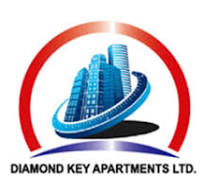
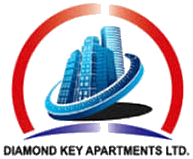
update background

diff --git a/src/components/Partners.jsx b/src/components/Partners.jsx
@@ -1,3 +1,4 @@
+import { useRef, useState } from 'react';
 import { ArrowUpRight } from 'lucide-react';
 import haMeemLogo from '../assets/partners/ha-meem-group.png';
 import allionLogo from '../assets/partners/allion-trade-international.png';
@@ -29,29 +30,108 @@ const partnerLogos = [
   { src: favLogo, alt: 'FAV Group of Companies logo' },
   { src: bpclLogo, alt: 'BPCL logo' },
   { src: safaAgroLogo, alt: 'Safa Agro logo' },
-  { src: residenceAddressLogo, alt: 'Residence Address logo' },
-  { src: quaziLogo, alt: 'Quazi logo' },
   { src: articleStructureLogo, alt: 'Article Structure logo' },
   { src: liliputLogo, alt: 'Liliput Digital logo' },
   { name: 'Safe Green Agro' },
+  { src: residenceAddressLogo, alt: 'Residence Address logo' },
+  { src: quaziLogo, alt: 'Quazi logo' },
   { name: 'Ashraf Setu Shopping Complex' },
 ];
 
 export default function Partners() {
+  const tickerRef = useRef(null);
+  const dragRef = useRef(null);
+  const [isDragging, setIsDragging] = useState(false);
+
+  const handlePointerDown = (event) => {
+    if (event.button !== 0) return;
+
+    const track = tickerRef.current?.querySelector('.ticker-track');
+    const animation = track?.getAnimations()[0];
+    const duration = Number(animation?.effect?.getTiming().duration);
+    const distance = track?.scrollWidth / 2;
+    if (!animation || !duration || !distance) return;
+
+    event.preventDefault();
+    animation.pause();
+    dragRef.current = {
+      pointerId: event.pointerId,
+      startX: event.clientX,
+      startTime: Number(animation.currentTime) || 0,
+      duration,
+      distance,
+      animation,
+    };
+    event.currentTarget.setPointerCapture(event.pointerId);
+    setIsDragging(true);
+  };
+
+  const handlePointerMove = (event) => {
+    const drag = dragRef.current;
+    if (!drag || drag.pointerId !== event.pointerId) return;
+
+    event.preventDefault();
+    const deltaX = event.clientX - drag.startX;
+    const time = drag.startTime - (deltaX / drag.distance) * drag.duration;
+    drag.animation.currentTime = ((time % drag.duration) + drag.duration) % drag.duration;
+  };
+
+  const handlePointerEnd = (event) => {
+    const drag = dragRef.current;
+    if (!drag || drag.pointerId !== event.pointerId) return;
+
+    dragRef.current = null;
+    setIsDragging(false);
+    drag.animation.play();
+  };
+
+  const handleKeyDown = (event) => {
+    if (event.key !== 'ArrowLeft' && event.key !== 'ArrowRight') return;
+
+    const track = tickerRef.current?.querySelector('.ticker-track');
+    const animation = track?.getAnimations()[0];
+    const duration = Number(animation?.effect?.getTiming().duration);
+    const distance = track?.scrollWidth / 2;
+    if (!animation || !duration || !distance) return;
+
+    event.preventDefault();
+    const deltaX = event.key === 'ArrowRight' ? -120 : 120;
+    const time = (Number(animation.currentTime) || 0) - (deltaX / distance) * duration;
+    animation.currentTime = ((time % duration) + duration) % duration;
+  };
+
   return (
     <section className="partners" id="partners" aria-label="Trusted by industry leaders">
       <div className="partner-intro"><span className="eyebrow">TRUSTED BY INDUSTRY LEADERS</span><h2>Better work<br /><em>starts together.</em></h2><a href="#contact">Become a partner <ArrowUpRight size={15} /></a></div>
-      <ul className="partner-logo-grid" aria-label="Client and partner logos">
-        {partnerLogos.map((logo) => (
-          <li className="partner-logo-card" key={logo.alt || logo.name}>
-            {logo.src ? (
-              <img src={logo.src} alt={logo.alt} loading="lazy" />
-            ) : (
-              <span className="partner-logo-name">{logo.name}</span>
-            )}
-          </li>
-        ))}
-      </ul>
+      <div
+        className={`ticker-window${isDragging ? ' is-dragging' : ''}`}
+        ref={tickerRef}
+        role="group"
+        aria-label="Client and partner logos. Drag to browse or use the arrow keys."
+        tabIndex={0}
+        onPointerDown={handlePointerDown}
+        onPointerMove={handlePointerMove}
+        onPointerUp={handlePointerEnd}
+        onPointerCancel={handlePointerEnd}
+        onLostPointerCapture={handlePointerEnd}
+        onKeyDown={handleKeyDown}
+      >
+        <div className="ticker-track">
+          {[false, true].map((isDuplicate) => (
+            <ul className="partner-logo-group" key={isDuplicate ? 'duplicate' : 'logos'} aria-hidden={isDuplicate}>
+              {partnerLogos.map((logo) => (
+                <li className="partner-logo-item" key={logo.alt || logo.name}>
+                  {logo.src ? (
+                    <img src={logo.src} alt={isDuplicate ? '' : logo.alt} loading="lazy" draggable={false} />
+                  ) : (
+                    <span className="partner-logo-name">{logo.name}</span>
+                  )}
+                </li>
+              ))}
+            </ul>
+          ))}
+        </div>
+      </div>
       <div className="partner-footnote">SELECTED CLIENTS &amp; PARTNERS · VERSACRAFT LIMITED</div>
     </section>
   );

diff --git a/src/App.css b/src/App.css
@@ -558,7 +558,6 @@
     bottom: 25px;
     left: max(48px, calc((100vw - 1240px)/2));
     right: max(48px, calc((100vw - 1240px)/2));
-    border-top: 1px solid #ffffff35;
     padding-top: 12px;
     display: flex;
     justify-content: space-between;
@@ -1161,7 +1160,7 @@
 
 .partners {
     min-height: 260px;
-    padding: 42px 0 34px;
+    padding: 42px 0 48px;
     position: relative;
     scroll-margin-top: 78px;
     display: grid;
@@ -1192,40 +1191,63 @@
     font-weight: 700
 }
 
-.partner-logo-grid {
+.ticker-window {
     grid-column: 2;
-    display: grid;
-    grid-template-columns: repeat(4, minmax(0, 1fr));
-    gap: 12px;
     width: 100%;
-    margin: 0;
-    padding: 0 max(34px, calc((100vw - 1172px)/2)) 0 0;
-    list-style: none;
+    overflow: hidden;
+    cursor: grab;
+    touch-action: pan-y;
+    user-select: none
 }
 
-.partner-logo-card {
+.ticker-window.is-dragging {
+    cursor: grabbing
+}
+
+.ticker-track {
+    display: flex;
+    width: max-content;
+    animation: partner-marquee 46s linear infinite
+}
+
+.partner-logo-group {
+    display: flex;
+    align-items: center;
+    flex: none;
+    gap: clamp(28px, 4vw, 60px);
+    margin: 0;
+    padding: 0 clamp(28px, 4vw, 60px) 0 0;
+    list-style: none
+}
+
+.partner-logo-item {
     display: grid;
     place-items: center;
-    min-width: 0;
-    min-height: 92px;
-    padding: 10px;
+    flex: 0 0 175px;
+    min-height: 90px;
+    padding: 8px;
     border: 1px solid #ffffff24;
     border-radius: 8px;
-    background: #fff;
-    box-shadow: 0 10px 24px #0002;
+    background: #fff
 }
 
-.partner-logo-card img {
+.partner-logo-item img {
     display: block;
-    width: 100%;
-    height: 72px;
-    object-fit: contain;
+    max-width: 157px;
+    max-height: 68px;
+    object-fit: contain
 }
 
 .partner-logo-name {
-    color: #23384a;
+    color: #35415d;
     font: 700 12px/1.35 Manrope, sans-serif;
-    text-align: center;
+    text-align: center
+}
+
+@keyframes partner-marquee {
+    to {
+        transform: translateX(-50%)
+    }
 }
 
 .partner-footnote {
@@ -1449,10 +1471,6 @@
 @media(max-width:1000px) {
     .nav-wrap {
         width: calc(100% - 40px)
-    }
-
-    .partner-logo-grid {
-        grid-template-columns: repeat(3, minmax(0, 1fr));
     }
 
     .brand img {
@@ -1920,11 +1938,8 @@
         font-size: 24px
     }
 
-    .partner-logo-grid {
-        grid-template-columns: repeat(2, minmax(0, 1fr));
-        width: calc(100% - 44px);
-        margin: 0 auto;
-        padding: 0;
+    .ticker-window {
+        margin-top: 12px;
     }
 
     .partner-footnote {
@@ -2344,10 +2359,6 @@ body {
 .hero-prepared b,
 .hero-foot a {
     color: #ecf7f2
-}
-
-.hero-foot {
-    border-color: #ffffff2a
 }
 
 .hero-art:before {
@@ -4190,14 +4201,14 @@ body {
 
 .map-art.map-background {
     position: fixed;
-    inset: 78px 0 0;
+    inset: 0;
     z-index: 1;
     display: grid;
     width: 100%;
     height: auto;
     overflow: hidden;
     place-items: center;
-    background: linear-gradient(180deg, #080e0d 0%, transparent 180px), radial-gradient(ellipse at 48% 42%, #0d3b31 0%, transparent 43%), radial-gradient(ellipse at 5% 0%, #0a2c27 0%, transparent 35%), linear-gradient(145deg, #080e0d 0%, #0b1714 56%, #07100f 100%);
+    background: radial-gradient(ellipse at 48% 42%, #0d3b31 0%, transparent 43%), radial-gradient(ellipse at 5% 0%, #0a2c27 0%, transparent 35%), linear-gradient(145deg, #080e0d 0%, #0b1714 56%, #07100f 100%);
     opacity: 1;
     pointer-events: none;
     transition: opacity .55s ease;
@@ -4246,11 +4257,13 @@ body {
 }
 
 .hero {
-    background: linear-gradient(180deg, rgba(8, 14, 13, 0) 0%, rgba(8, 14, 13, .34) 30%, rgba(7, 16, 15, .76) 100%);
+    background: linear-gradient(180deg, rgba(8, 14, 13, 0) 0%, rgba(8, 14, 13, .24) 30%, #101e1a 100%);
 }
 
 .site-header {
-    border-bottom-color: #8cf5d30c;
+    background: transparent;
+    border-bottom: none;
+    box-shadow: none;
 }
 
 .about,
@@ -4259,16 +4272,15 @@ body {
 .approach,
 .partners,
 .footer {
-    background: linear-gradient(125deg, rgba(9, 18, 15, .86), rgba(14, 33, 28, .82) 52%, rgba(10, 20, 17, .86));
+    background:
+        linear-gradient(180deg, #101e1a 0, transparent 110px),
+        linear-gradient(0deg, #101e1a 0, transparent 110px),
+        linear-gradient(125deg, rgba(9, 18, 15, .86), rgba(14, 33, 28, .82) 52%, rgba(10, 20, 17, .86));
 }
 
 @media (max-width: 700px) {
     .map-stage {
         height: 58vh;
-    }
-
-    .map-art.map-background {
-        inset: 70px 0 0;
     }
 
     .map-art.map-background .world-map-canvas {
